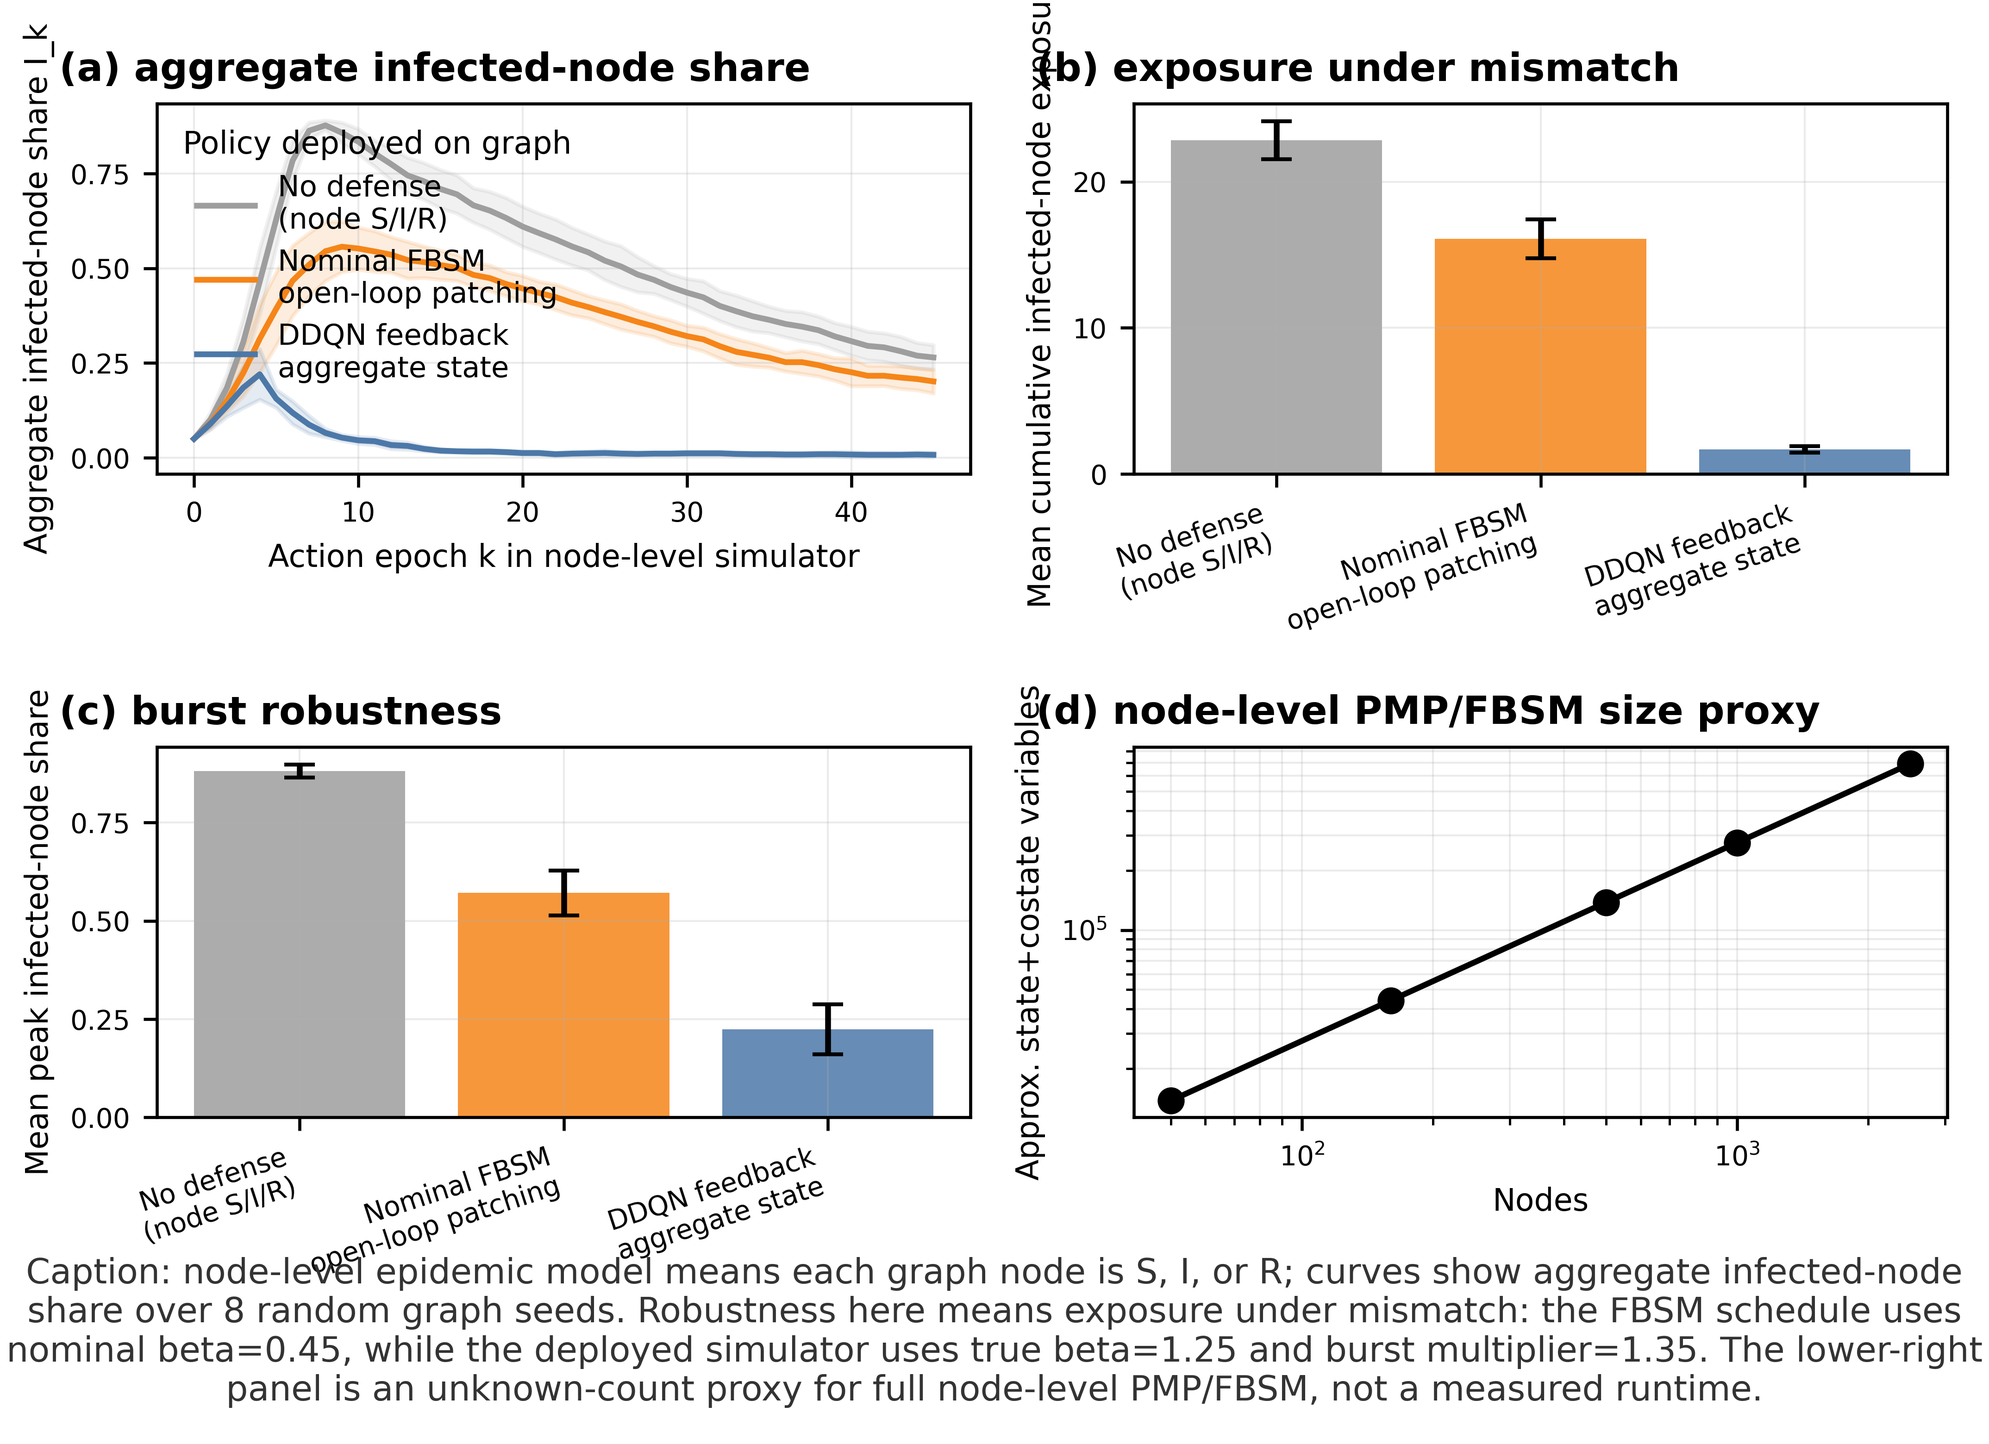
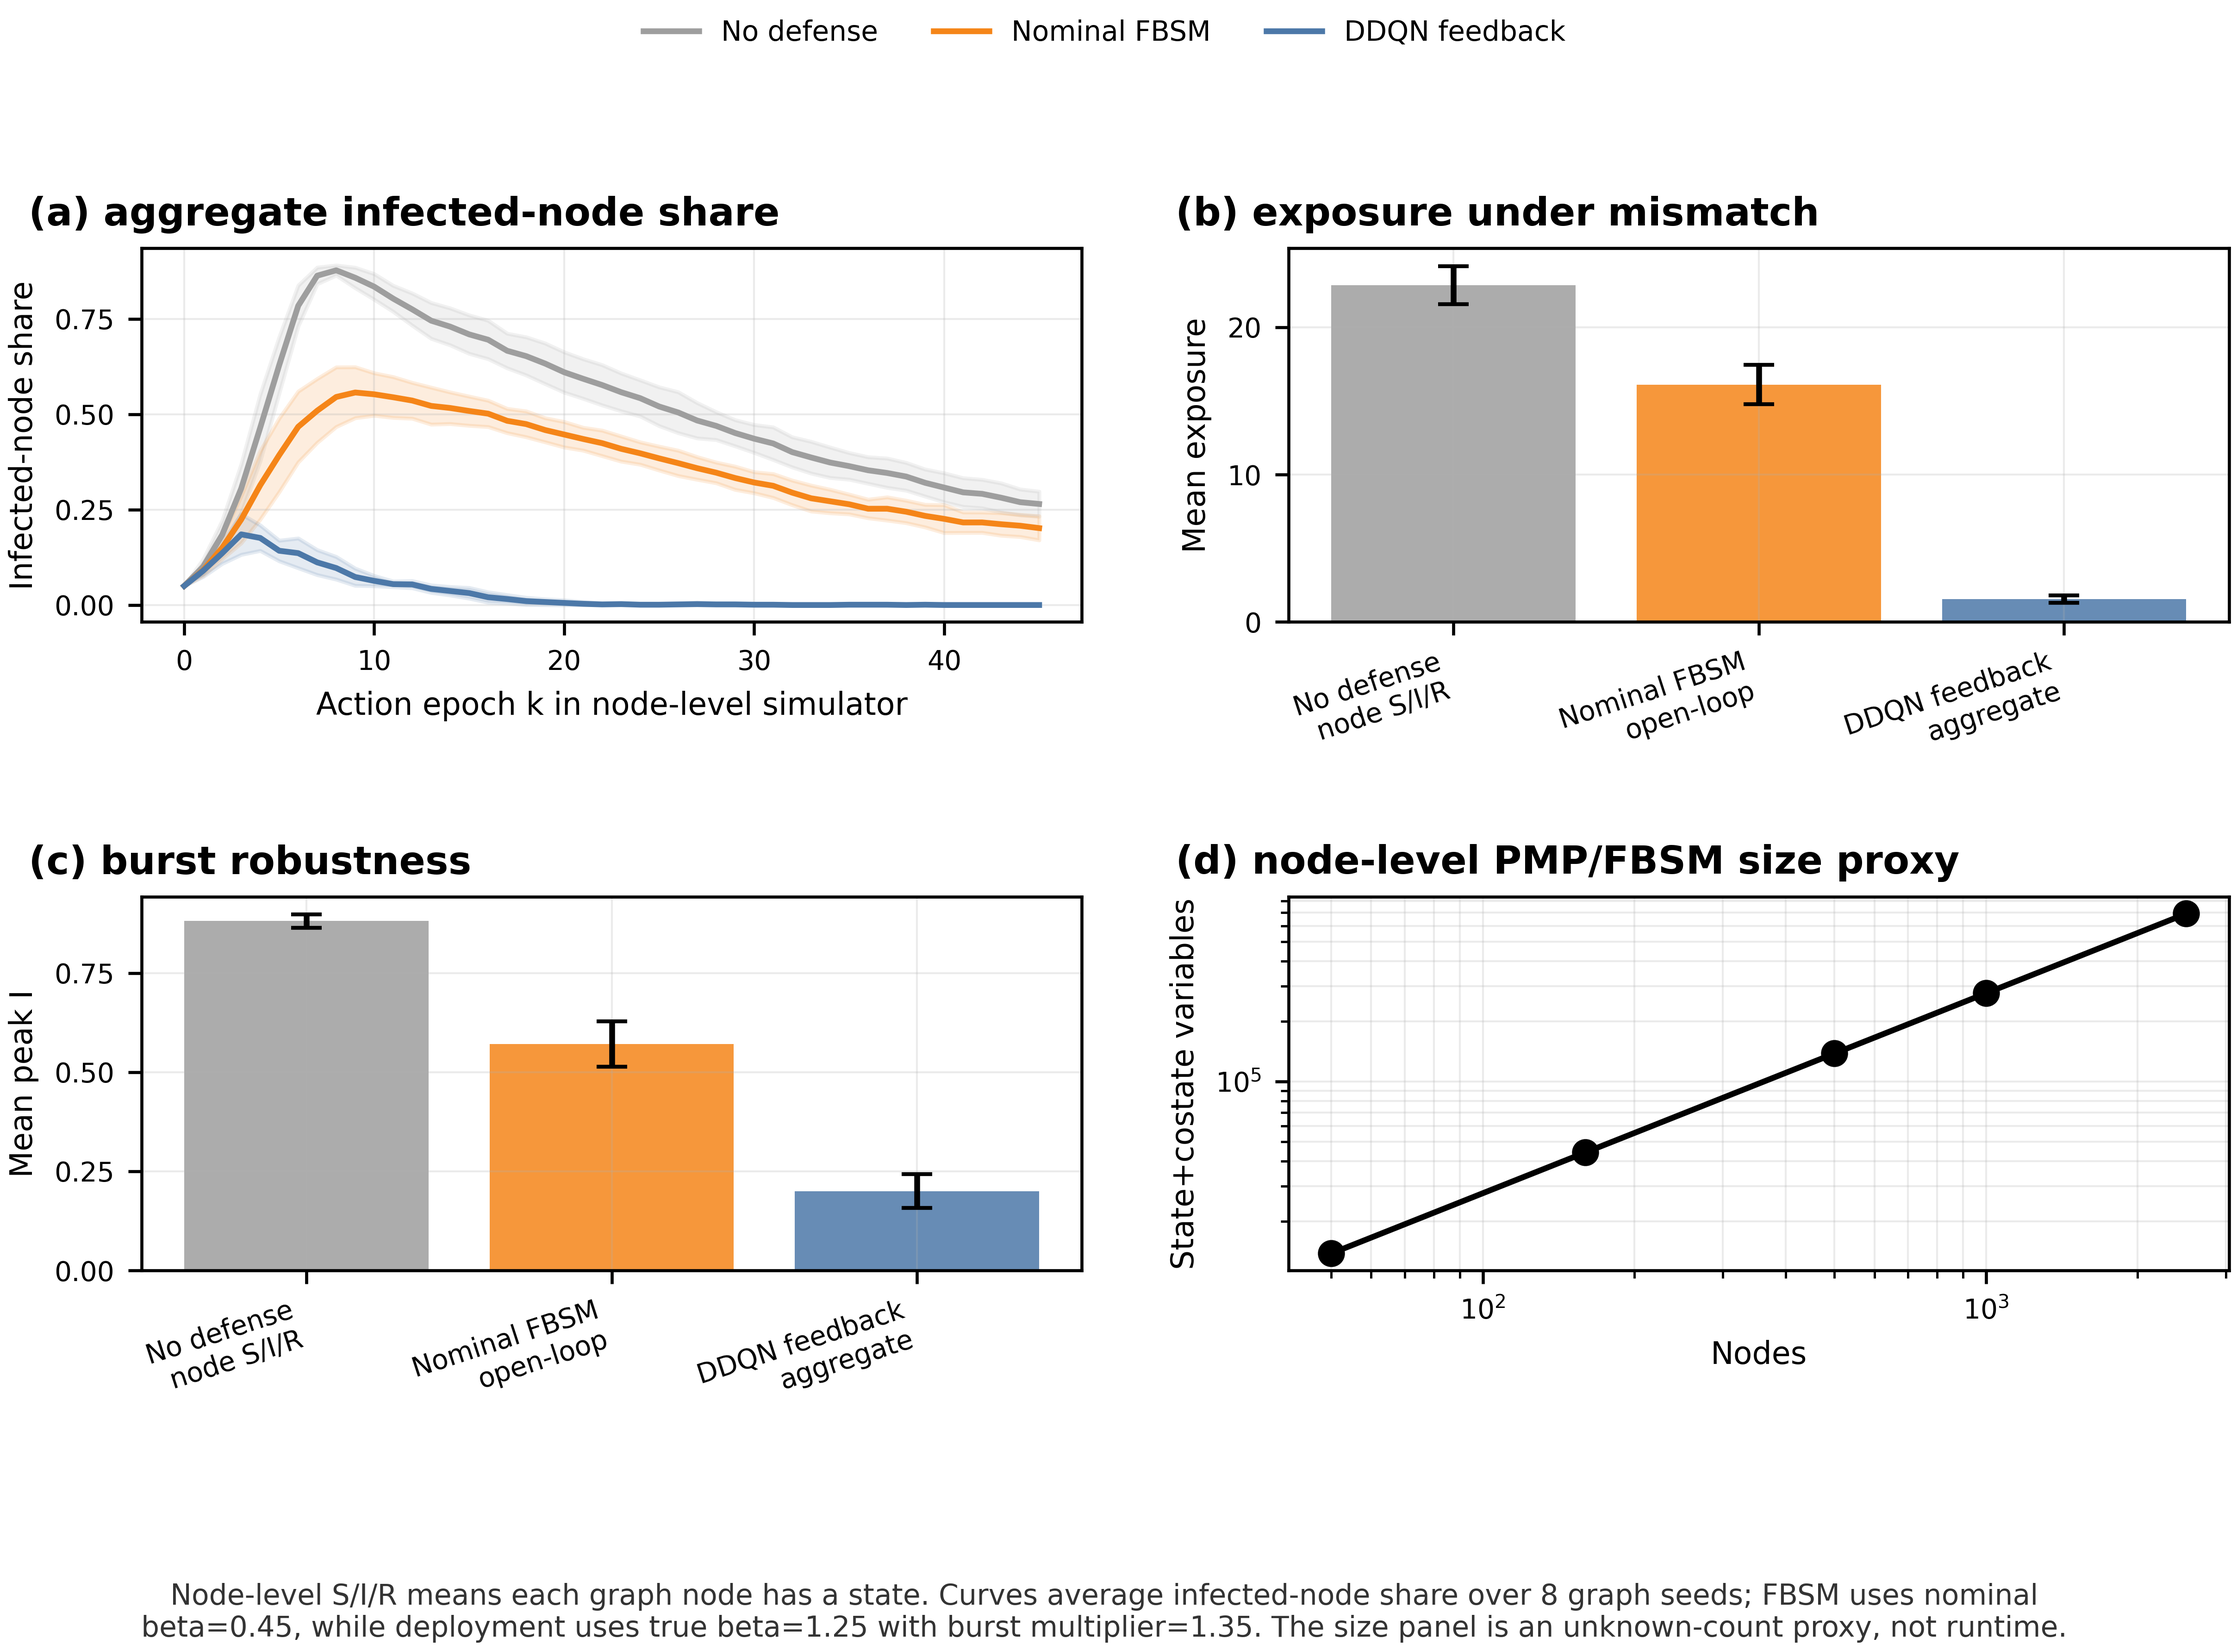
Improve README figure readability

diff --git a/scripts/run_training_iterations.py b/scripts/run_training_iterations.py
@@ -437,7 +437,7 @@ In this section, **node-level** means each graph node carries a local S/I/R epid
 
 def plot_training_diagnostics(output_path: Path, fbsm: list[dict], ddqn: list[dict], madrl: list[dict], policy_metrics: list[dict]) -> None:
     with publication_style():
-        fig, axes = plt.subplots(2, 2, figsize=(7.16, 5.2))
+        fig, axes = plt.subplots(2, 2, figsize=(7.16, 5.85))
     axes = axes.ravel()
 
     axes[0].semilogy([r["iteration"] for r in fbsm], [r["max_control_change"] for r in fbsm], color="black")
@@ -532,12 +532,17 @@ def plot_node_level_advantage(output_path: Path, rollouts: list[dict], rows: lis
         NODE_DDQN_LABEL: "#4c78a8",
     }
     display_names = {
-        NODE_NO_DEFENSE_LABEL: "No defense\n(node S/I/R)",
-        NODE_FBSM_LABEL: "Nominal FBSM\nopen-loop patching",
-        NODE_DDQN_LABEL: "DDQN feedback\naggregate state",
+        NODE_NO_DEFENSE_LABEL: "No defense",
+        NODE_FBSM_LABEL: "Nominal FBSM",
+        NODE_DDQN_LABEL: "DDQN feedback",
+    }
+    tick_names = {
+        NODE_NO_DEFENSE_LABEL: "No defense\nnode S/I/R",
+        NODE_FBSM_LABEL: "Nominal FBSM\nopen-loop",
+        NODE_DDQN_LABEL: "DDQN feedback\naggregate",
     }
     with publication_style():
-        fig, axes = plt.subplots(2, 2, figsize=(7.16, 5.2))
+        fig, axes = plt.subplots(2, 2, figsize=(8.4, 6.2))
     axes = axes.ravel()
 
     ax = axes[0]
@@ -553,22 +558,22 @@ def plot_node_level_advantage(output_path: Path, rollouts: list[dict], rows: lis
     style_axis(
         ax,
         xlabel="Action epoch k in node-level simulator",
-        ylabel="Aggregate infected-node share I_k",
+        ylabel="Infected-node share",
     )
-    ax.legend(title="Policy deployed on graph", fontsize=7.5, title_fontsize=8, frameon=False)
+    handles, legend_labels = ax.get_legend_handles_labels()
 
     def mean_metric(policy: str, key: str) -> tuple[float, float]:
         vals = np.asarray([row[key] for row in rows if row["policy"] == policy], dtype=float)
         return float(vals.mean()), float(vals.std())
 
-    labels = [display_names.get(p, p) for p in policies]
+    labels = [tick_names.get(p, p) for p in policies]
     x = np.arange(len(policies))
     cumulative = [mean_metric(p, "cumulative_compromised") for p in policies]
     ax = axes[1]
     ax.bar(x, [v[0] for v in cumulative], yerr=[v[1] for v in cumulative],
            color=[colors.get(p, "#4c78a8") for p in policies], alpha=0.85, capsize=4)
     ax.set_xticks(x, labels, rotation=18, ha="right")
-    ax.set_ylabel("Mean cumulative infected-node exposure")
+    ax.set_ylabel("Mean exposure")
     panel_label(ax, "(b) exposure under mismatch")
     ax.grid(axis="y", alpha=0.25)
 
@@ -577,7 +582,7 @@ def plot_node_level_advantage(output_path: Path, rollouts: list[dict], rows: lis
     ax.bar(x, [v[0] for v in peak], yerr=[v[1] for v in peak],
            color=[colors.get(p, "#4c78a8") for p in policies], alpha=0.85, capsize=4)
     ax.set_xticks(x, labels, rotation=18, ha="right")
-    ax.set_ylabel("Mean peak infected-node share")
+    ax.set_ylabel("Mean peak I")
     panel_label(ax, "(c) burst robustness")
     ax.grid(axis="y", alpha=0.25)
 
@@ -590,25 +595,31 @@ def plot_node_level_advantage(output_path: Path, rollouts: list[dict], rows: lis
     ax.set_yscale("log")
     panel_label(ax, "(d) node-level PMP/FBSM size proxy")
     ax.set_xlabel("Nodes")
-    ax.set_ylabel("Approx. state+costate variables")
+    ax.set_ylabel("State+costate variables")
     ax.grid(alpha=0.25, which="both")
 
     beta_assumed = rows[0]["beta_assumed_by_fbsm"]
     beta_true = rows[0]["beta_true_base"]
     burst = rows[0]["burst_multiplier"]
-    fig.text(
-        0.5,
-        0.025,
-        "Caption: node-level epidemic model means each graph node is S, I, or R; curves show aggregate infected-node share over 8 random graph seeds. "
-        f"Robustness here means exposure under mismatch: the FBSM schedule uses nominal beta={beta_assumed:.2f}, while the deployed simulator uses true beta={beta_true:.2f} and burst multiplier={burst:.2f}. "
-        "The lower-right panel is an unknown-count proxy for full node-level PMP/FBSM, not a measured runtime.",
-        ha="center",
-        va="bottom",
-        fontsize=9,
-        color="#333333",
-        wrap=True,
+    fig.legend(
+        handles,
+        legend_labels,
+        loc="upper center",
+        bbox_to_anchor=(0.5, 0.975),
+        ncol=3,
+        fontsize=7.2,
+        frameon=False,
     )
-    fig.tight_layout(rect=(0, 0.08, 1, 1))
+    add_caption(
+        fig,
+        "Node-level S/I/R means each graph node has a state. Curves average infected-node share over 8 graph seeds; "
+        f"FBSM uses nominal beta={beta_assumed:.2f}, while deployment uses true beta={beta_true:.2f} with burst multiplier={burst:.2f}. "
+        "The size panel is an unknown-count proxy, not runtime.",
+        width=132,
+        y=0.018,
+        fontsize=7.4,
+    )
+    fig.tight_layout(rect=(0.02, 0.12, 1, 0.89), h_pad=1.4, w_pad=2.2)
     output_path.parent.mkdir(exist_ok=True)
     save_publication_figure(
         fig,

diff --git a/scripts/generate_figures.py b/scripts/generate_figures.py
@@ -40,6 +40,15 @@ from evaluation_metrics import evaluate_policy_suite
 from fbsm_malware_baseline import solve_fbsm
 
 
+def policy_display_label(name: str) -> str:
+    """Return a compact plot label without splitting domain terms."""
+
+    replacements = {
+        "Rule threshold isolate/deceive/patch": "Rule threshold\nisolate/deceive/patch",
+    }
+    return replacements.get(name, name)
+
+
 def plot_fbsm(output_dir: Path) -> None:
     t, x, u, _, objective = solve_fbsm(T=24.0, n=120, max_iter=30)
     with publication_style():
@@ -118,11 +127,11 @@ def plot_sampled_impulse_policy_comparison(output_dir: Path) -> None:
     colors = list(PUBLICATION_COLORS[:4])
     linestyles = list(PUBLICATION_LINESTYLES[:4])
     markers = list(PUBLICATION_MARKERS[:4])
-    labels = [textwrap.fill(row["policy"], width=18) for row in metrics]
+    labels = [policy_display_label(row["policy"]) for row in metrics]
     x = np.arange(len(labels))
 
     with publication_style():
-        fig, axes = plt.subplots(2, 2, figsize=(7.16, 5.2))
+        fig, axes = plt.subplots(2, 2, figsize=(7.16, 5.85))
     ax = axes[0, 0]
     for idx, rollout in enumerate(rollouts):
         states = rollout["states"]
@@ -131,7 +140,7 @@ def plot_sampled_impulse_policy_comparison(output_dir: Path) -> None:
         ax.plot(
             t,
             states[:, 1],
-            label=textwrap.fill(rollout["label"], width=18),
+            label=policy_display_label(rollout["label"]),
             color=colors[idx],
             linestyle=linestyles[idx],
             marker=markers[idx],
@@ -140,7 +149,8 @@ def plot_sampled_impulse_policy_comparison(output_dir: Path) -> None:
             markersize=4,
         )
     panel_label(ax, "(a) compromised state")
-    style_axis(ax, xlabel="Action/observation epoch k", ylabel="Compromised share I", legend=True)
+    style_axis(ax, xlabel="Action/observation epoch k", ylabel="Compromised share I")
+    handles, legend_labels = ax.get_legend_handles_labels()
 
     ax = axes[0, 1]
     ax.bar(x, [row["cumulative_compromised"] for row in metrics], color=colors, alpha=0.85)
@@ -157,19 +167,30 @@ def plot_sampled_impulse_policy_comparison(output_dir: Path) -> None:
     ax.set_ylabel("Compromised share")
     ax.set_xticks(x, labels, rotation=20, ha="right")
     ax.grid(axis="y", alpha=0.25)
-    ax.legend(fontsize=8)
+    ax.legend(fontsize=7.5, frameon=False, loc="upper right")
 
     ax = axes[1, 1]
     costs = [row["total_defender_cost"] for row in metrics]
     ax.barh(labels, costs, color=colors, alpha=0.85)
+    max_cost = max(costs)
+    label_x = max_cost * 1.06
     for idx, row in enumerate(metrics):
-        note = f'impulses={row["impulse_events"]}'
-        ax.text(costs[idx], idx, f" {note}", va="center", fontsize=8)
+        note = f'{row["impulse_events"]} impulses'
+        ax.text(label_x, idx, note, va="center", fontsize=7.5)
     panel_label(ax, "(d) cost and impulses")
     ax.set_xlabel("Total defender cost (lower is better)")
-    ax.set_xlim(0, max(costs) * 1.18)
+    ax.set_xlim(0, max_cost * 1.42)
     ax.grid(axis="x", alpha=0.25)
-    fig.tight_layout()
+    fig.legend(
+        handles,
+        legend_labels,
+        loc="upper center",
+        bbox_to_anchor=(0.5, 0.995),
+        ncol=2,
+        fontsize=7.4,
+        frameon=False,
+    )
+    fig.tight_layout(rect=(0, 0, 1, 0.91), h_pad=1.2, w_pad=1.0)
     save_publication_figure(
         fig,
         output_dir / "sampled_impulse_policy_comparison",
